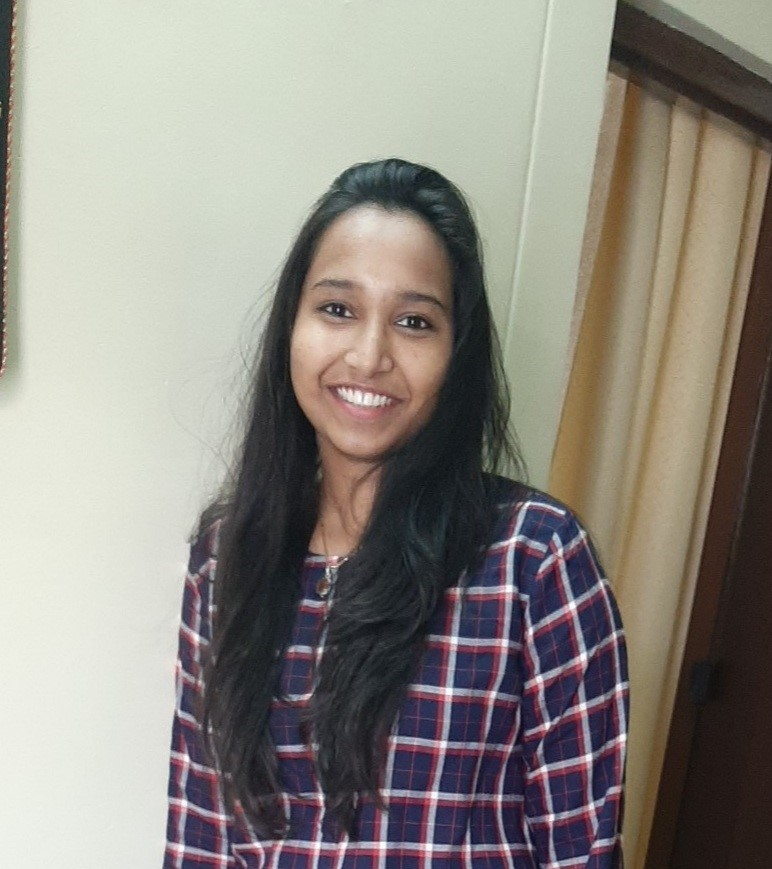
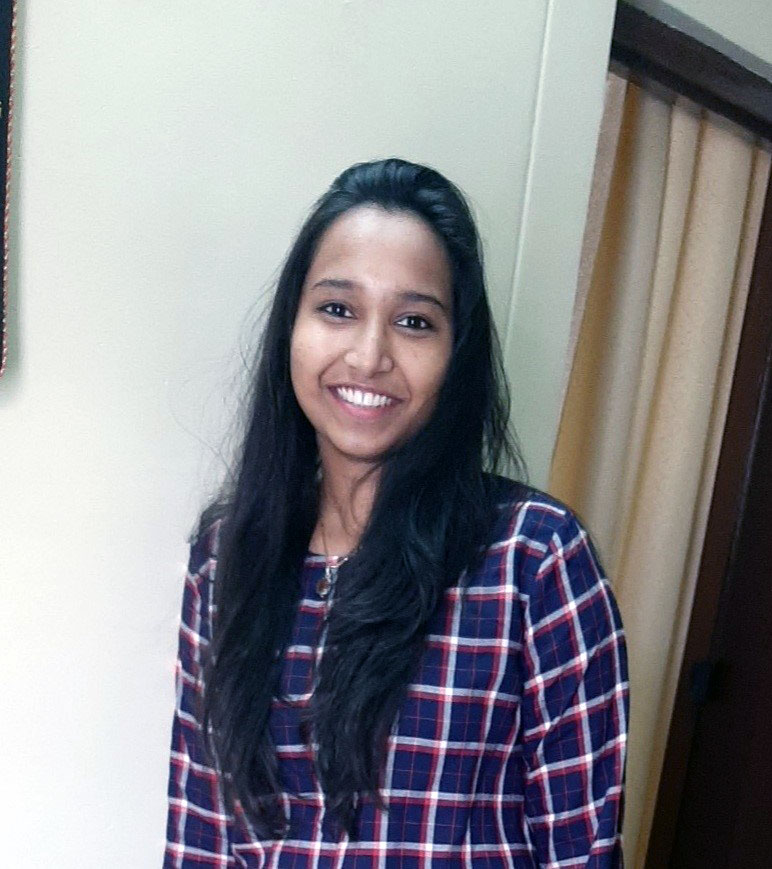
photo changed

Changed region(s): [[0.0622, 0.87, 0.1554, 1.0], [0.1865, 0.6525, 0.2176, 0.6835]]

diff --git a/team.html b/team.html
@@ -35,7 +35,7 @@
           <div class="flex flex-wrap -m-4 justify-center">
             <div class="p-4 lg:w-1/4 md:w-1/2">
               <div class="h-full flex flex-col items-center text-center">
-                <img alt="team" class="flex-shrink-0 rounded-lg w-full h-64 object-cover object-center mb-4" src="imgs/viashnavi_k.jpeg">
+                <img alt="team" class="flex-shrink-0 rounded-lg w-full h-64 object-cover object-center mb-4" src="imgs/vaishnavi.jpeg">
                 <div class="w-full">
                   <h2 class="title-font font-medium text-lg text-gray-900">Vaishnavi K</h2>
                   <h3 class="text-gray-500 mb-3">Undergraduate Representative</h3>
